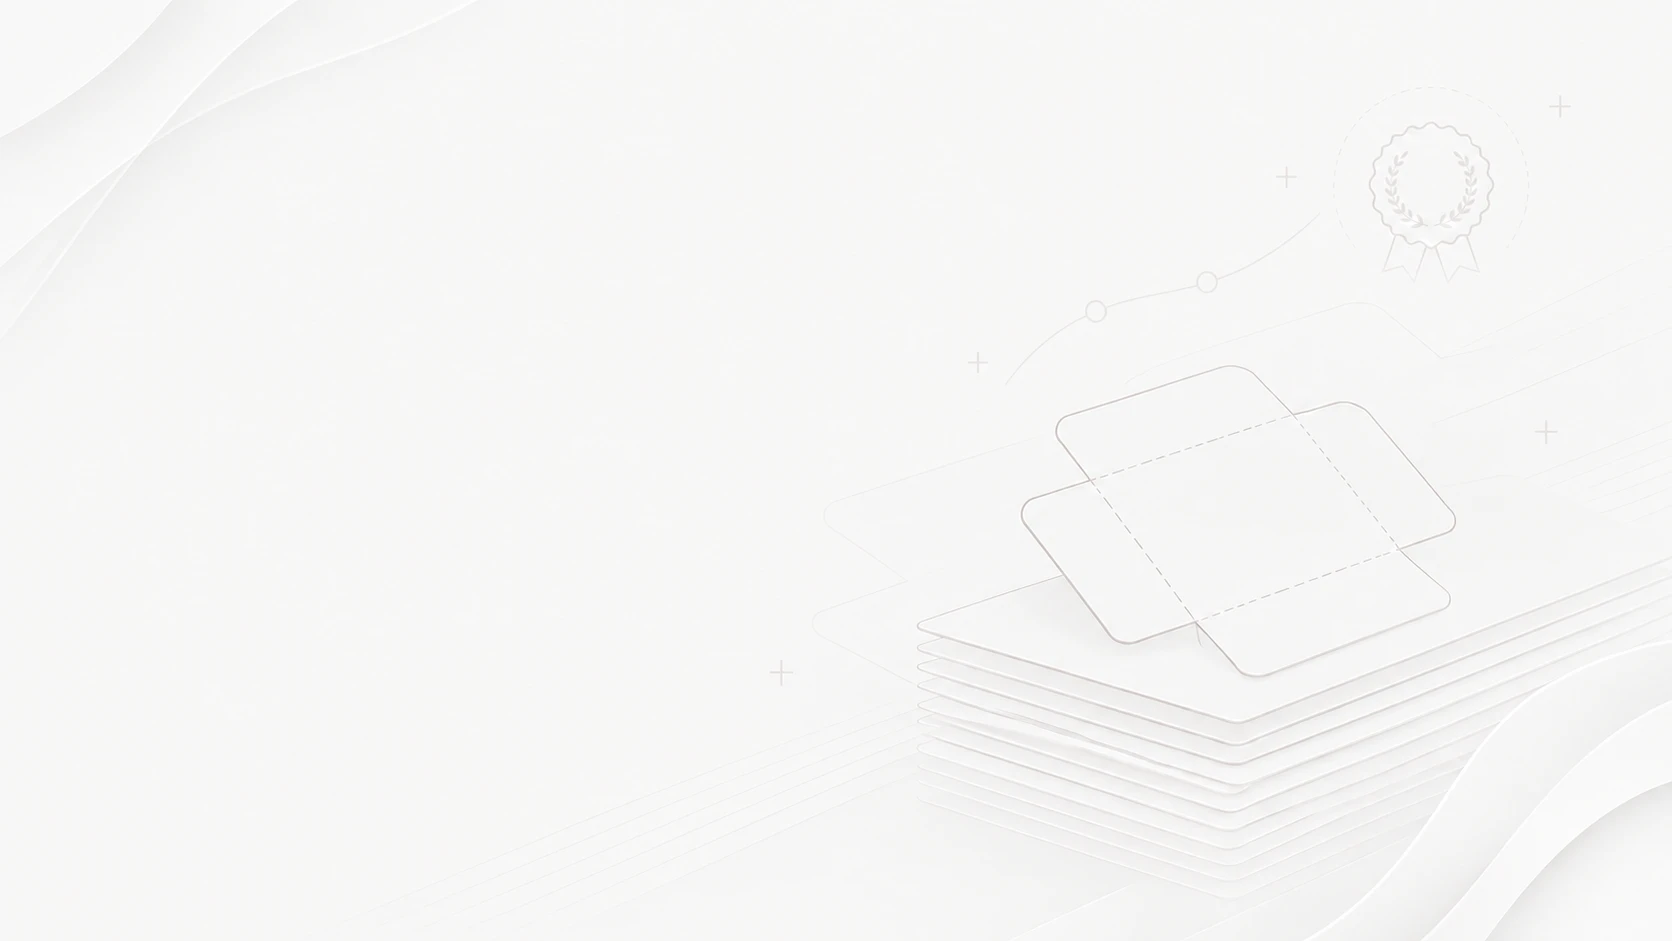
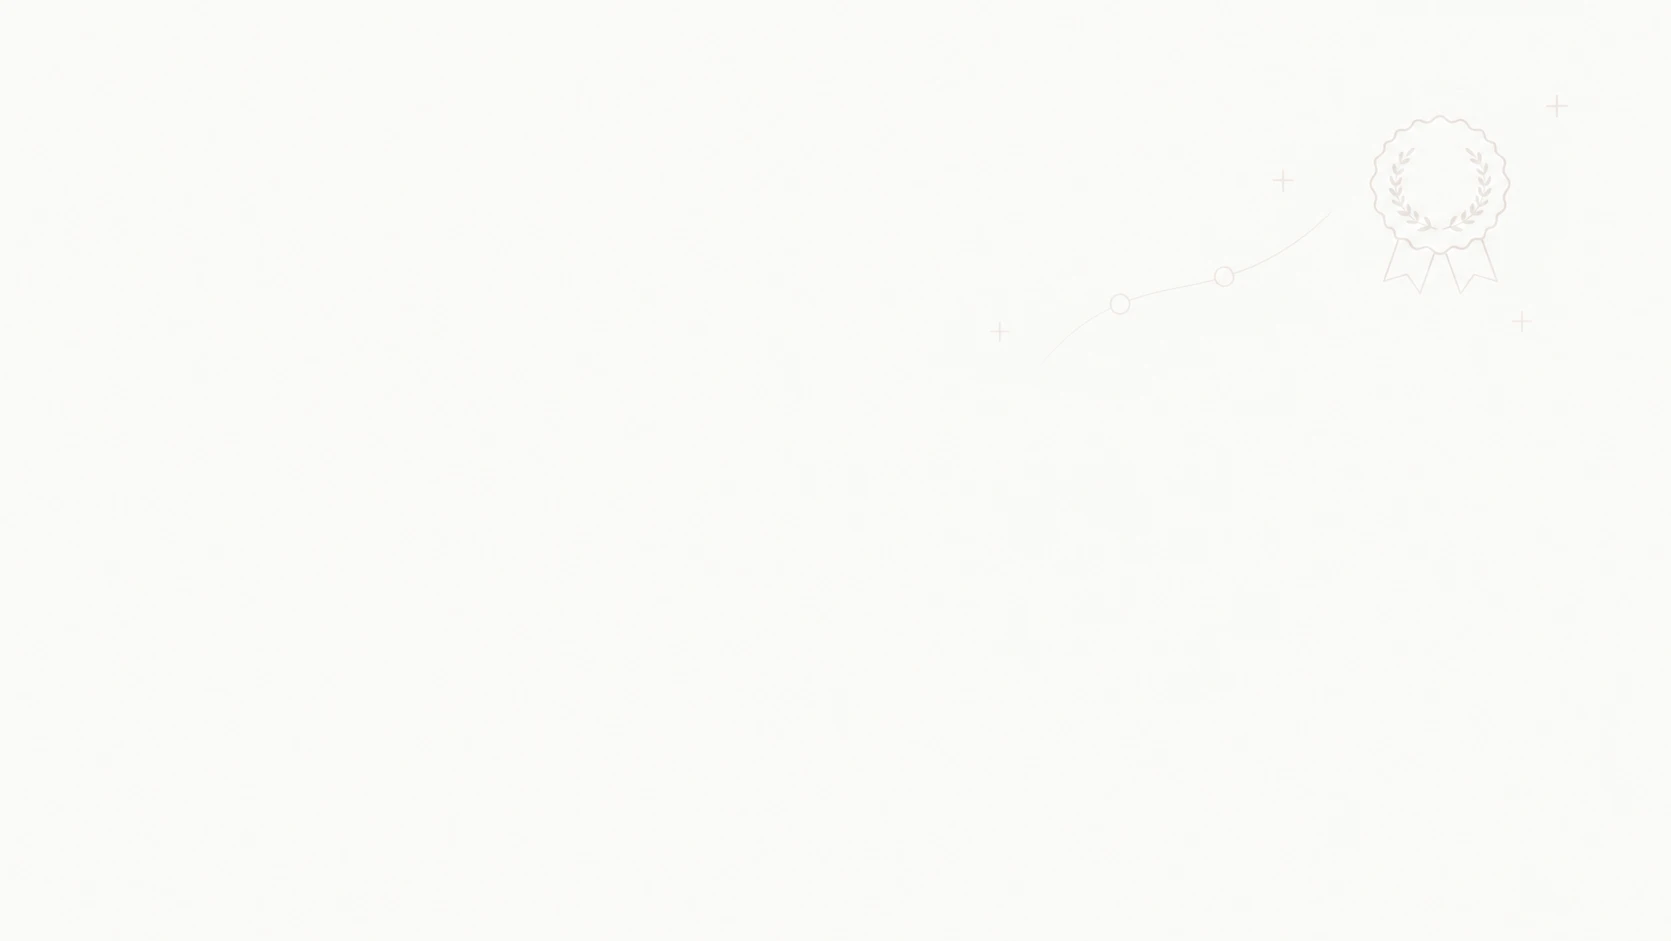
Swap achievements section background to new award-themed illustration
Claude-Session: https://claude.ai/code/session_01UoLkfdkL2AE7BdS2rfwpFF

diff --git a/index.html b/index.html
@@ -549,4 +549,4 @@
 <script src="js/contact-form.js?v=3"></script>
 </body>
 </html>
-<!-- branch: claude/inter-pack-website-kkgw7z, last changed by Claude: 2026-11-06 18:39 (Tashkent time, UTC+5) -->
+<!-- branch: claude/inter-pack-website-kkgw7z, last changed by Claude: 2026-11-09 11:04 (Tashkent time, UTC+5) -->
